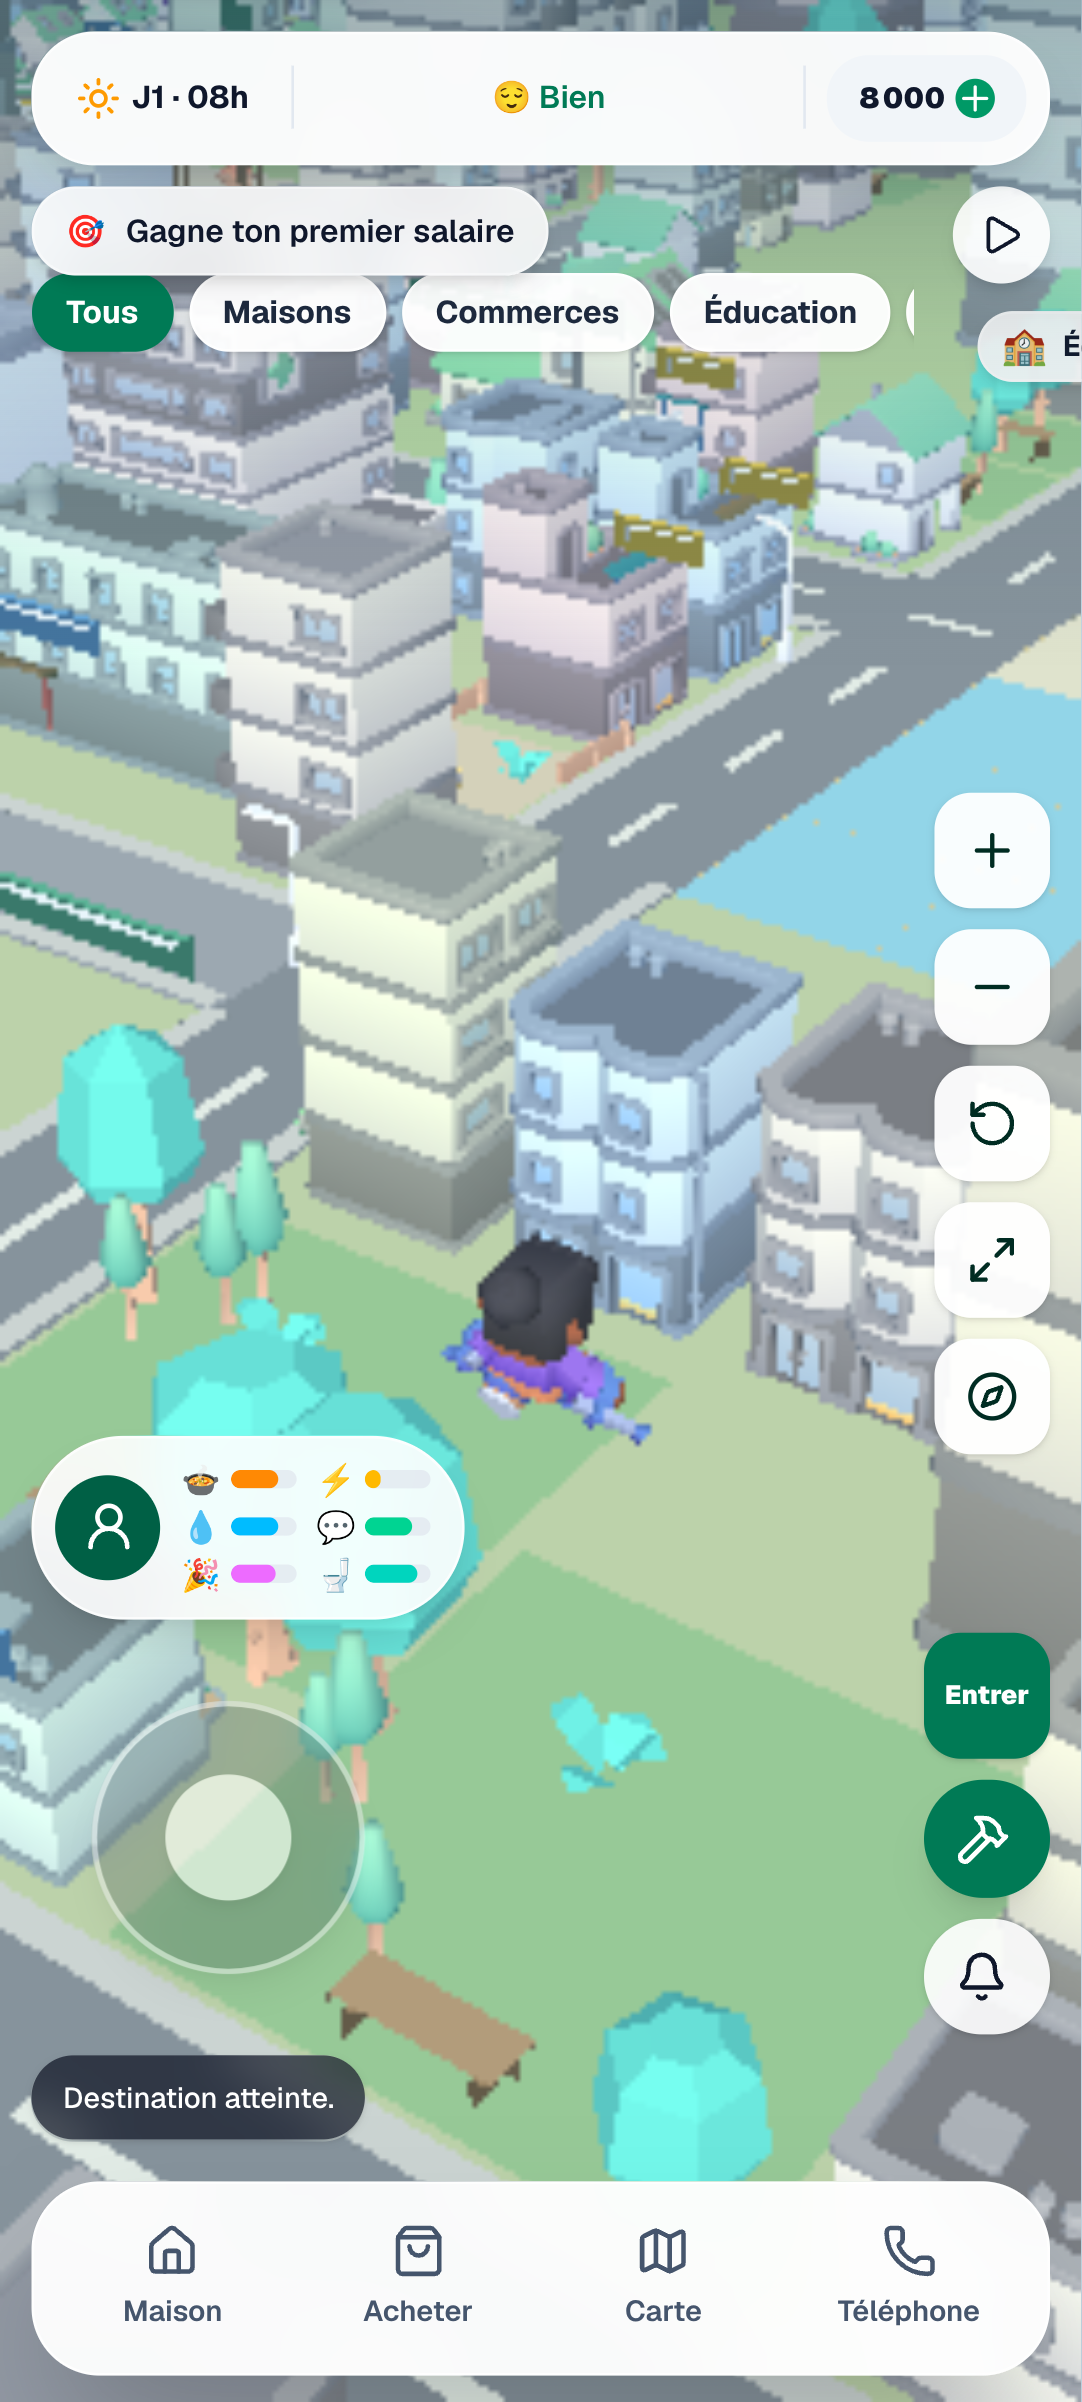
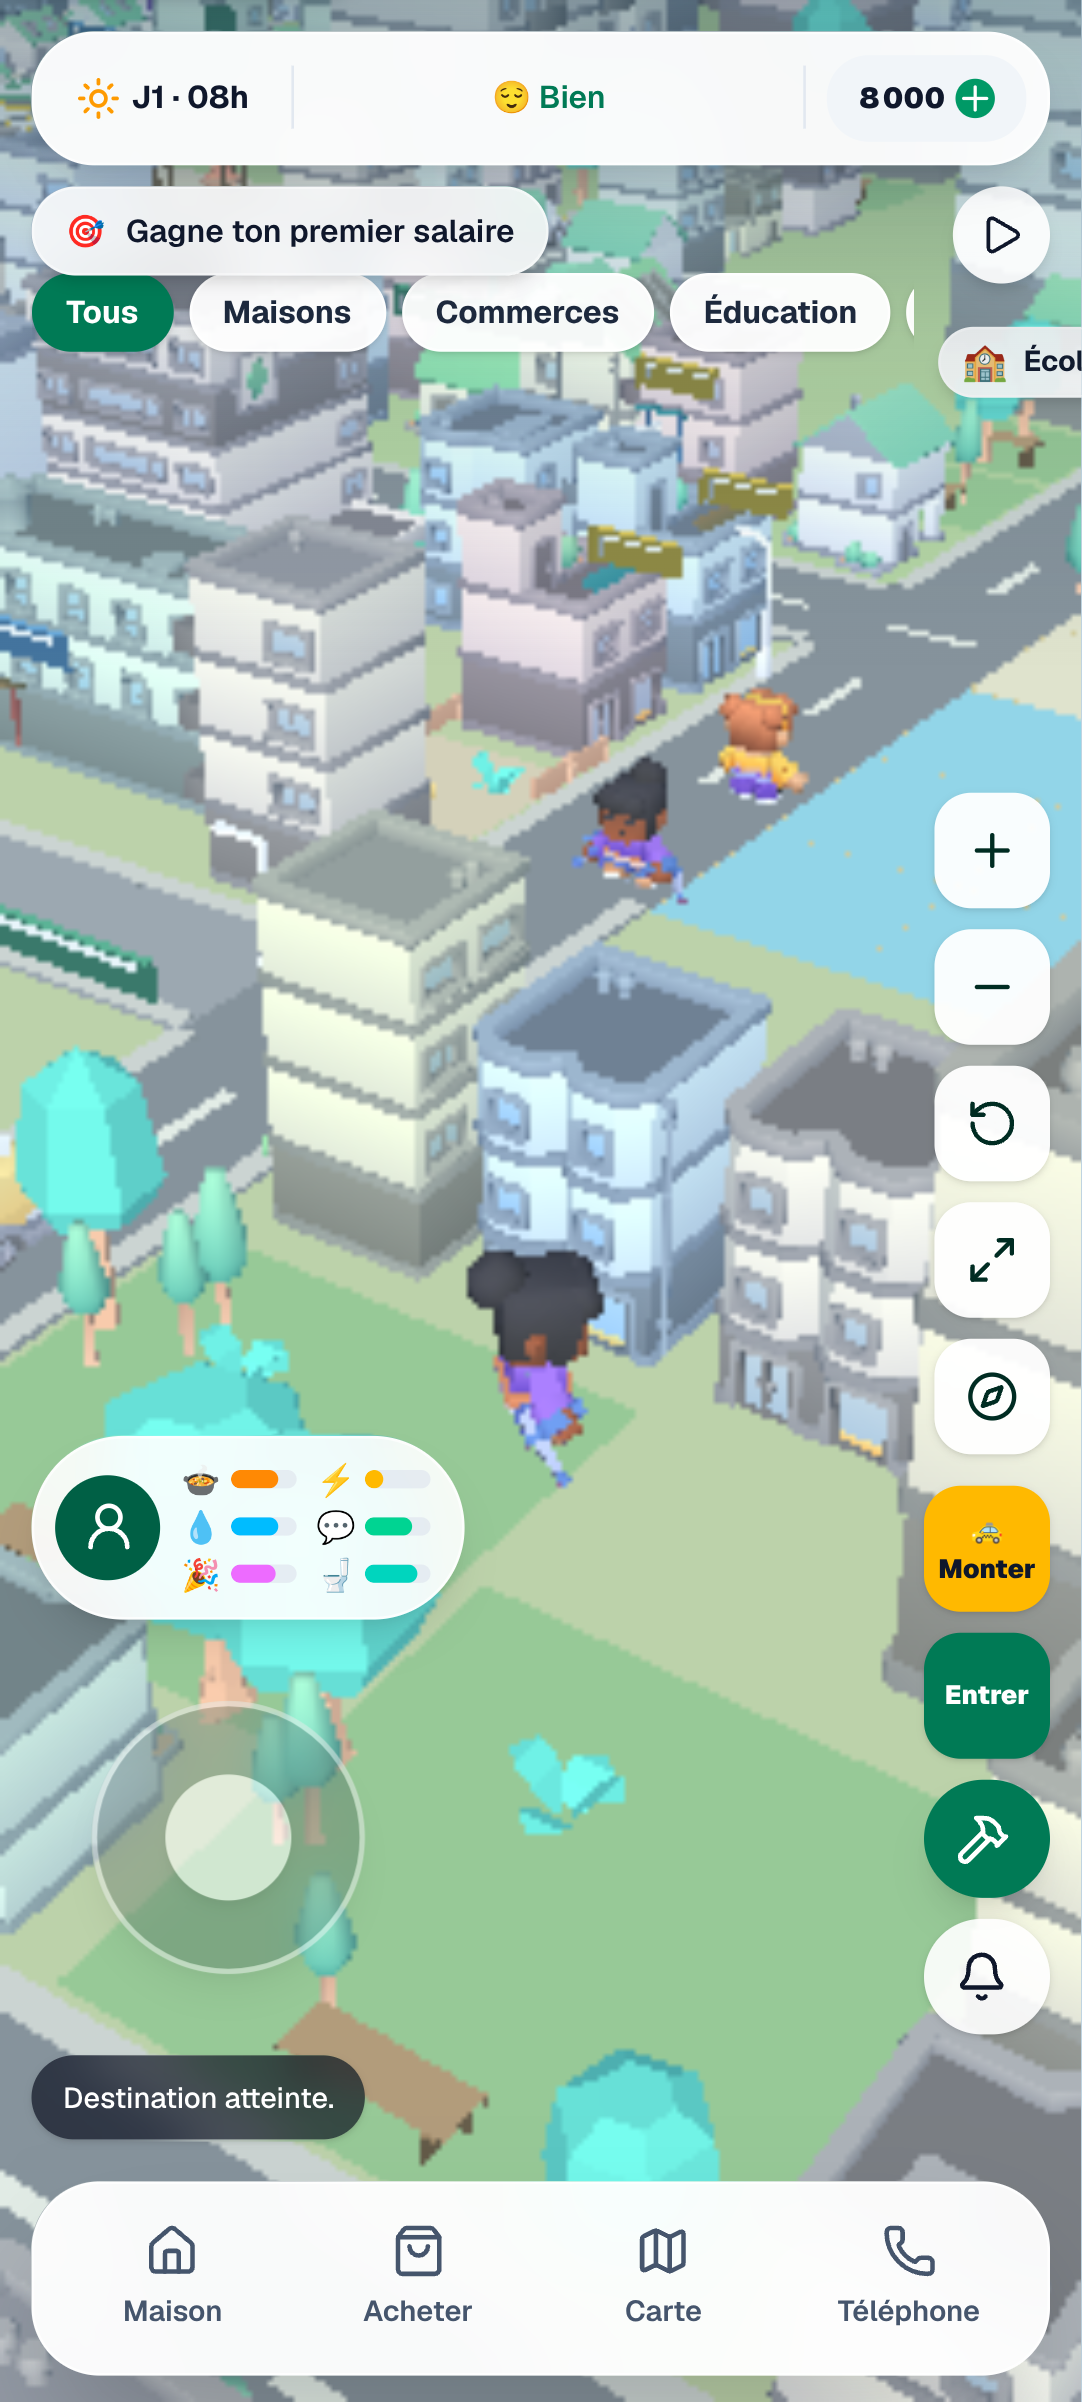
docs(haroolife): Jalon D, suite Lomé complète 26/26 sur la tranche jouable
Claude-Session: https://claude.ai/code/session_01KobZHn9e36S8z4s7NMsHoX

diff --git a/docs/haroolife-jalon-d-final.md b/docs/haroolife-jalon-d-final.md
@@ -45,7 +45,7 @@ faite depuis cette session** : suivre le protocole de la baseline sur la Motorol
 - Suite Lomé complète sur la première build D1 : 26 tests, 22 verts, 4 échecs = les deux anciens
   specs qui cliquaient le pavé 4 directions (`lome-life`, `lome-travel`), réécrits pour le
   déplacement continu ; après reconstruction, `lome-life` + `lome-travel` + `lome-player` + `lome-perf`
-  8/8 verts (desktop + mobile-android).
+  8/8 verts, puis **suite complète 26/26** (desktop + mobile-android, 10,8 min) sur la build committée.
 
 ## Reste à faire (ordre de la mission)
 
